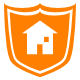
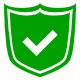
removed common get and set methods and replaced them by GetModeA1 to get the current arm state and SetModeA1 to set the current arm state. Arm states can be set to HOME or DISARM or ARM, added image for state arm.

diff --git a/src/LupusecXT2PlusPlugin/Lupusec.cs b/src/LupusecXT2PlusPlugin/Lupusec.cs
@@ -2,6 +2,7 @@
 {
     using System;
     using System.IO;
+    using System.Linq.Expressions;
     using System.Net;
     using System.Text;
 
@@ -9,21 +10,52 @@
 
     public class Request
     {
-        private static long gotTokenTicks = 0;
+        private static Int64 gotTokenTicks = 0;
         private static String currentToken = "";
-        public Boolean Set(String command, String data)
+        public Boolean SetModeA1(String mode)
         {
-            return SetData(command, data);
+            Boolean ret = false;
+            switch (mode.ToUpper())
+            {
+                case "HOME":
+                    this.SetData("/action/panelCondPost", "area=1&mode=2");
+                    ret = true;
+                    break;
+                case "ARM":
+                    this.SetData("/action/panelCondPost", "area=1&mode=1");
+                    ret = true;
+                    break;
+                case "DISARM":
+                    this.SetData("/action/panelCondPost", "area=1&mode=0");
+                    ret = true;
+                    break;
+            }
+            return ret;
         }
 
-        public String Get(String command)
+        public String GetModeA1()
         {
-            return GetData(command);
+            String data = this.GetData("/action/panelCondGet");
+            if (data != "")
+            {
+                JObject json = JObject.Parse(data);
+                var mode_a1 = json.SelectToken("updates.mode_a1").ToString();
+                if (mode_a1 == "{AREA_MODE_2}")
+                {
+                    return "HOME";
+                }
+                else if(mode_a1 == "{AREA_MODE_0}")
+                {
+                    return "DISARM";
+                }
+            }
+            return "";
         }
+
 
         private Boolean SetData(String command, String data)
         {
-            var token = GetToken();
+            var token = this.GetToken();
             if (token != "")
             {
                 try
@@ -83,10 +115,10 @@
             }
         }
 
-        private string GetToken()
+        private String GetToken()
         {
             DateTime currentDate = DateTime.Now;
-            long elapsedTicks = currentDate.Ticks - gotTokenTicks;
+            Int64 elapsedTicks = currentDate.Ticks - gotTokenTicks;
             TimeSpan elapsedSpan = new TimeSpan(elapsedTicks);
             if (elapsedSpan.TotalMinutes > 5)
             {
@@ -134,7 +166,7 @@
                 response.Close();
                 return data;
             }
-            catch (Exception ex)
+            catch
             {
                 return data;
             }

diff --git a/src/LupusecXT2PlusPlugin/Actions/SetMode.cs b/src/LupusecXT2PlusPlugin/Actions/SetMode.cs
@@ -10,28 +10,31 @@ namespace Loupedeck.LupusecXT2PlusPlugin
 
         private readonly String _image0ResourcePath;
         private readonly String _image1ResourcePath;
+        private readonly String _image2ResourcePath;
 
         public SetMode() : base(displayName: "Set Mode", description: "Sets Mode to Home or Disarm", groupName: "Mode")
         {
             this._image0ResourcePath = EmbeddedResources.FindFile("SetMode0.png");
             this._image1ResourcePath = EmbeddedResources.FindFile("SetMode1.png");
+            this._image2ResourcePath = EmbeddedResources.FindFile("SetMode2.png");
         }
         protected override BitmapImage GetCommandImage(String actionParameter, PluginImageSize imageSize)
         {
             Lupusec.Request lrequest = new Lupusec.Request();
-
-            String data = lrequest.Get("/action/panelCondGet");
-            if (data != "")
+            String mode_a1 = lrequest.GetModeA1();
+            if (mode_a1 != "")
             {
-                JObject json = JObject.Parse(data);
-                var mode_a1 = (json.SelectToken("updates.mode_a1")).ToString();
-
-                if (mode_a1 == "{AREA_MODE_2}")
+                if (mode_a1 == "HOME")
+                {
+                    this._arm = true;
+                    return EmbeddedResources.ReadImage(this._image2ResourcePath);
+                }
+                if (mode_a1 == "ARM")
                 {
                     this._arm = true;
                     return EmbeddedResources.ReadImage(this._image1ResourcePath);
                 }
-                if (mode_a1 == "{AREA_MODE_0}")
+                if (mode_a1 == "DISARM")
                 {
                     this._arm = false;
                     return EmbeddedResources.ReadImage(this._image0ResourcePath);
@@ -41,13 +44,13 @@ namespace Loupedeck.LupusecXT2PlusPlugin
         }
         protected override void RunCommand(String actionParameter)
         {
-            var mode = "2";
+            var mode = "HOME";
             if (this._arm)
             {
-                mode = "0";
+                mode = "DISARM";
             }
             Lupusec.Request lrequest = new Lupusec.Request();
-            if (lrequest.Set("/action/panelCondPost", ("area=1&mode=" + mode)))
+            if (lrequest.SetModeA1(mode))
             {
                 this.ActionImageChanged();
             }
